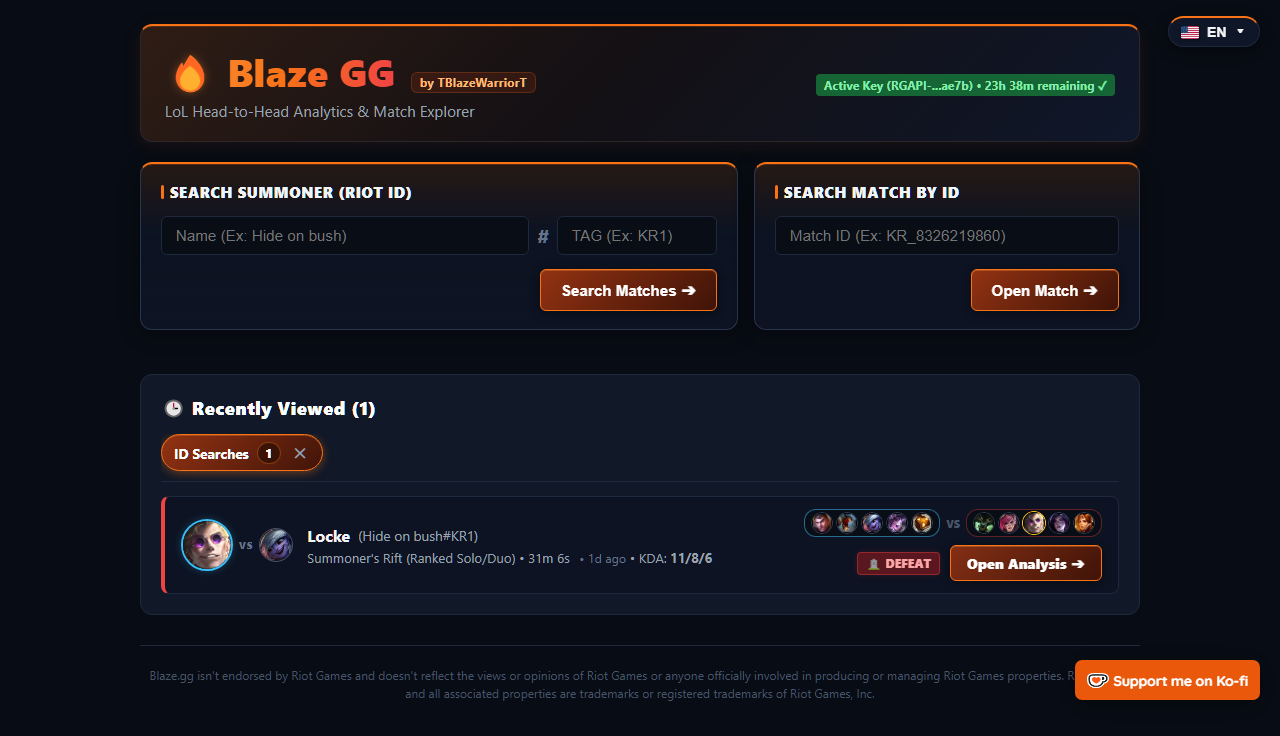
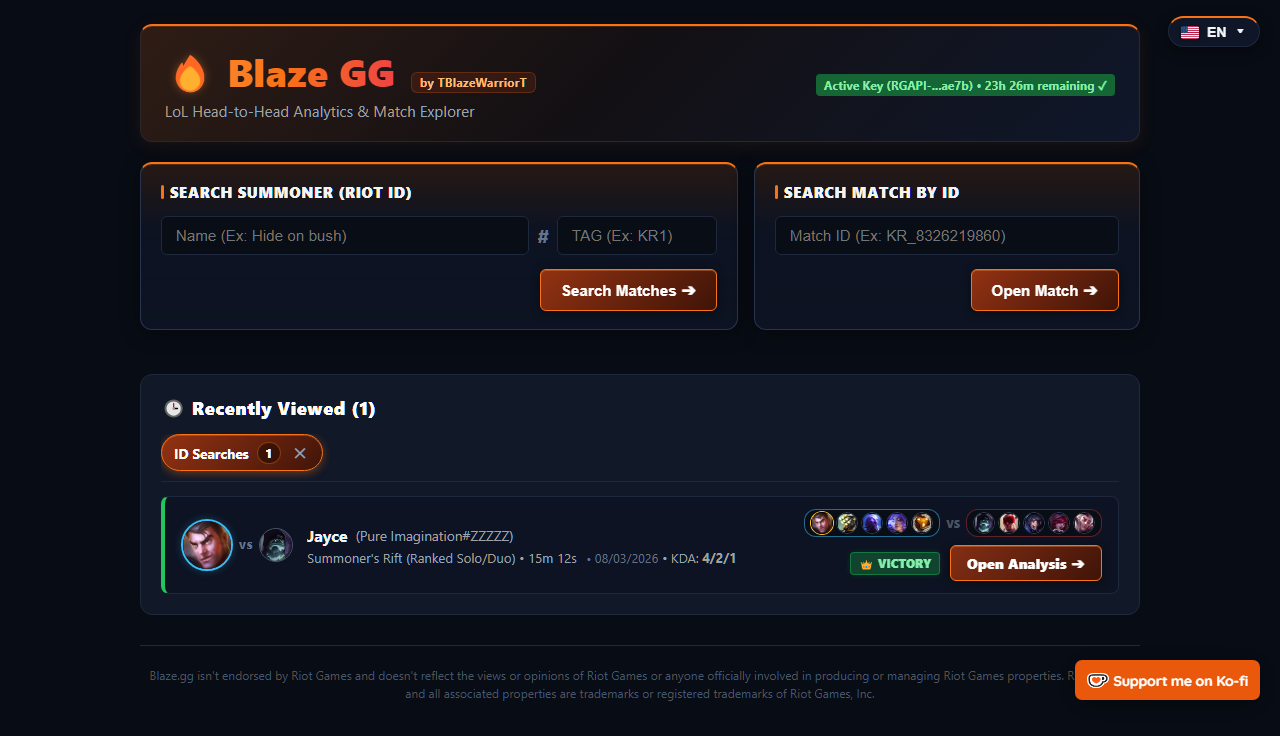
Fixed wrong screenshot...

diff --git a/scripts/generate_showcase.py b/scripts/generate_showcase.py
@@ -6,11 +6,12 @@ make the current screenshot stale:
     py scripts/generate_showcase.py
     py scripts/generate_showcase.py --match-id KR_8326219860 --out docs/showcase.png
 
-Uses a fixed match ID (Faker's, by default) rather than a live summoner search
-on purpose: a summoner search pulls whatever that player's most recent games
-are, so the screenshot would look different (and need regenerating) every
-time they play. A single match ID is permanent — the shot stays accurate
-until the UI itself changes.
+Uses a fixed match ID (the same one shown as the placeholder example in the
+app's own "Search Match by ID" box, by default) rather than a live summoner
+search on purpose: a summoner search pulls whatever that player's most recent
+games are, so the screenshot would look different (and need regenerating)
+every time they play. A single match ID is permanent — the shot stays
+accurate until the UI itself changes.
 
 Setup (one-time):
     pip install -r requirements-dev.txt
@@ -45,7 +46,7 @@ def wait_for_server(url: str, timeout: float = 20.0):
 
 def main():
     ap = argparse.ArgumentParser()
-    ap.add_argument("--match-id", default="KR_8368666881", help="Match ID to search by (default: one of Faker's real games, already cached with him as the recorded owner)")
+    ap.add_argument("--match-id", default="KR_8326219860", help="Match ID to search by (default: SHARED_EXAMPLES['example_match_id'] in src/i18n.py — the same ID shown as the placeholder in the app's own 'Search Match by ID' box)")
     ap.add_argument("--out", default=str(BASE_DIR / "docs" / "showcase.png"))
     ap.add_argument("--port", type=int, default=8321, help="Uses a separate port so it won't collide with a dev server on 8000")
     args = ap.parse_args()
